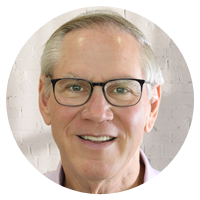
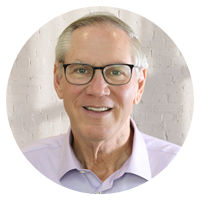
Photo update

diff --git a/public/index.html b/public/index.html
@@ -23,7 +23,10 @@
             box-shadow: 0 4px 6px rgba(0,0,0,0.1);
             position: relative;
             margin-top: 150px; /* room for the 75% of the avatar above the container */
-            padding-top: calc(50px + 1rem); /* clear the 25% of the avatar inside the container */
+            padding-top: 50px; /* clear the 25% of the avatar inside the container */
+        }
+        .container h1 {
+            margin-top: 0.5rem;
         }
         .avatar {
             position: absolute;
